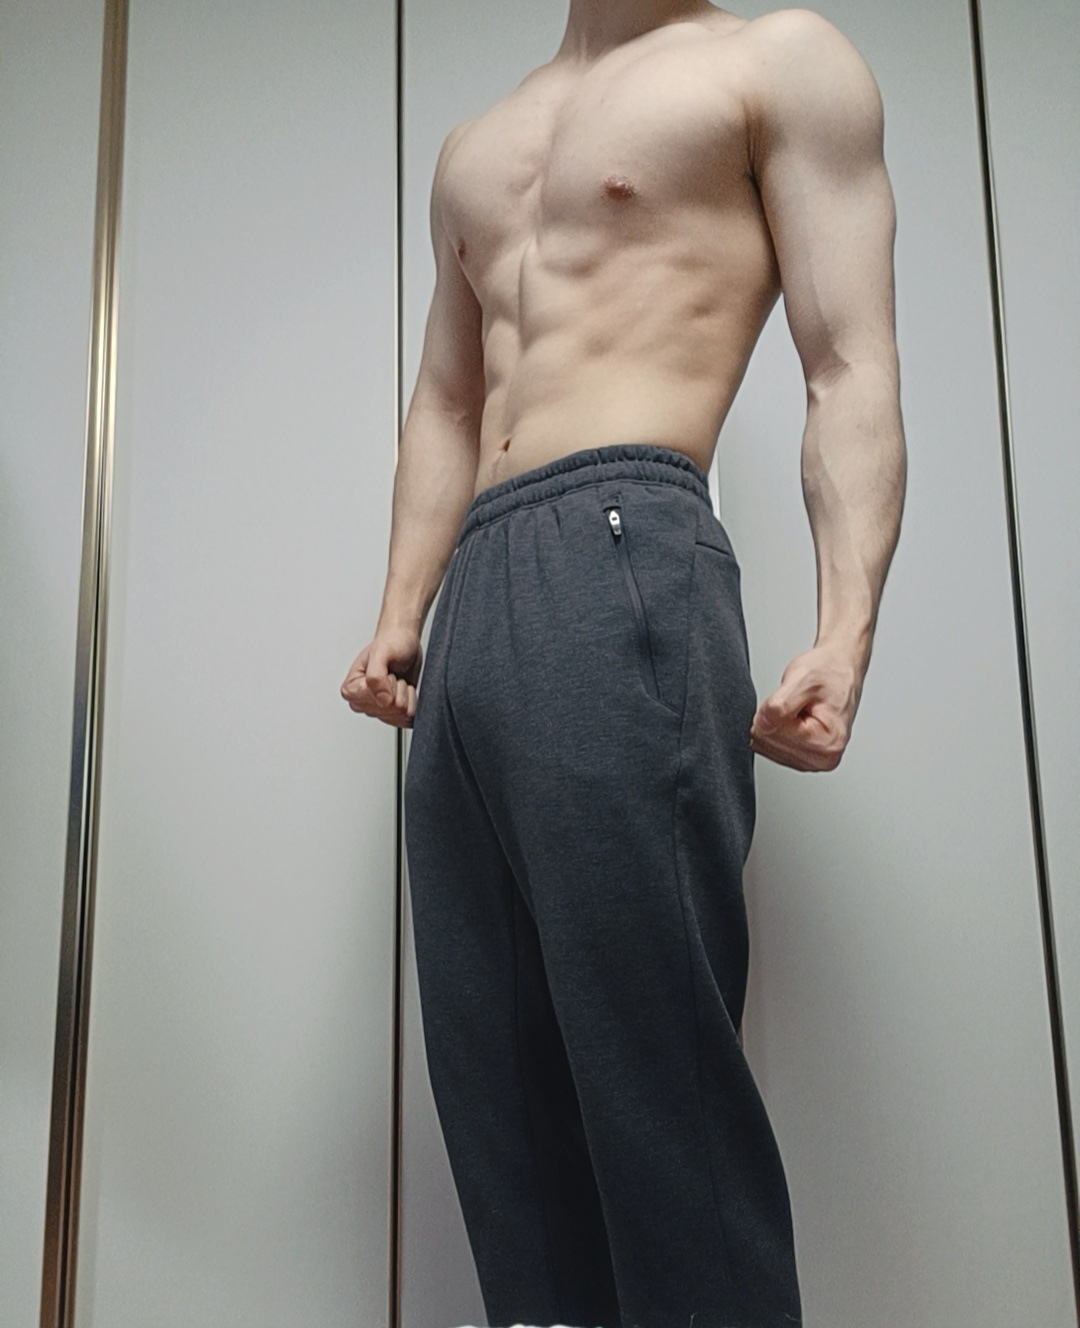
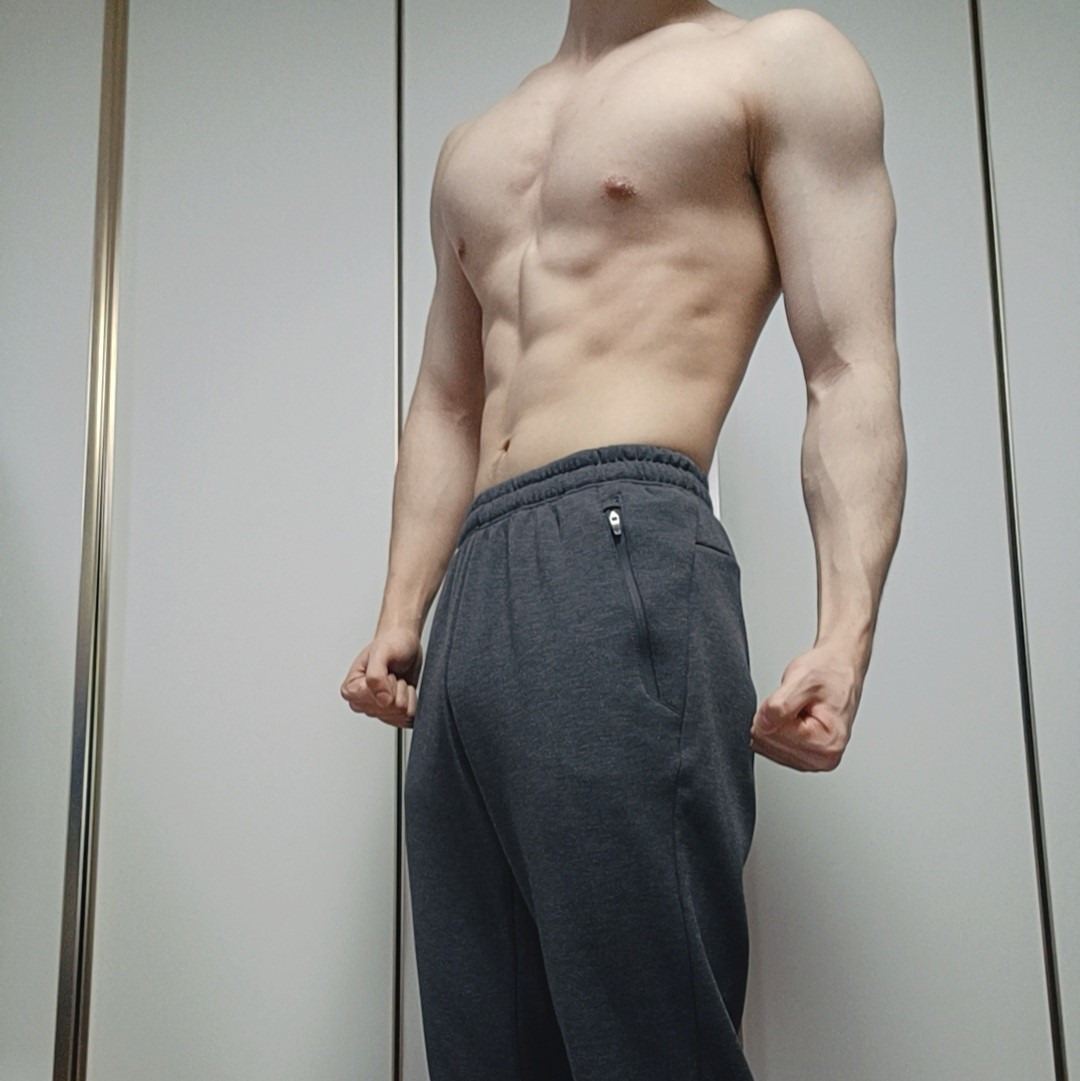
2025-01-10 Developments

diff --git a/hans-universe-workout/src/components/WorkoutContents.jsx b/hans-universe-workout/src/components/WorkoutContents.jsx
@@ -9,7 +9,7 @@ export default function WorkoutContents() {
       <div className="container-jh">
         <div className="body-profile-box">
           <h4 className="motto">&quot;Do as consistently as I can&quot;</h4>
-          <img src={bodyProfileImg} alt="bodyprofile" width={100}/>
+          <img src={bodyProfileImg} alt="bodyprofile" />
         </div>
         <article className="workout-article">
           <div className="article-title-box">
@@ -20,28 +20,28 @@ export default function WorkoutContents() {
             I had nothing to do with sports before I went to the army. So I had a hard time in the early days of my military life and decided that I should exercise, and now exercise is a big driving force in my life.
           </p>
           <div className="article-title-box">
-          <ion-icon name="accessibility-outline" />
+            <ion-icon name="accessibility-outline" />
             <h3 className="article-title">InBody</h3>
             <span className="bodyprofile-date">(As of October 22, 2024)</span>
-            <BarChart 
-              dataset={inbodyDataset}
-              yAxis={[{
-                scaleType: "band",
-                dataKey: "type",
-                disableTicks: true,
-              }]}
-              series={[{ dataKey: 'value', label: "mass", valueFormatter }]}
-              layout="horizontal"
-              grid={{vertical: true}}
-              colors={["black"]}
-              borderRadius={50}
-              xAxis={[{
-                label: "mass (kg)"
-              }]}
-              height={200}
-              width={500}
-            />
           </div>
+          <BarChart 
+            dataset={inbodyDataset}
+            yAxis={[{
+              scaleType: "band",
+              dataKey: "type",
+              disableTicks: true,
+            }]}
+            series={[{ dataKey: 'value', label: "mass", valueFormatter }]}
+            layout="horizontal"
+            grid={{vertical: true}}
+            colors={["black"]}
+            borderRadius={50}
+            xAxis={[{
+              label: "mass (kg)"
+            }]}
+            height={200}
+            width={500}
+          />
         </article>
       </div>
     </section>

diff --git a/hans-universe-workout/src/styles/components/_workoutContents.scss b/hans-universe-workout/src/styles/components/_workoutContents.scss
@@ -1,0 +1,29 @@
+@use "../abstracts" as *;
+
+#workout-contents .container-jh {
+  display: grid;
+  grid-template-columns: 1fr 1fr;
+  gap: 4rem;
+
+  .body-profile-box {
+    display: grid;
+    position: relative;
+
+    img {
+      object-fit: cover;
+      object-position: top;
+      border-radius: 5px;
+    }
+  }
+
+  .workout-article {
+    .article-title-box {
+      display: flex;
+      gap: 1rem;
+
+      ion-icon {
+        font-size: $fs-2;
+      }
+    }
+  }
+}

diff --git a/hans-universe-workout/src/styles/abstracts/_mixins.scss b/hans-universe-workout/src/styles/abstracts/_mixins.scss
@@ -1,0 +1,16 @@
+@mixin headerStyle($type, $url) {
+  ##{$type}-header {
+    background-image: linear-gradient(rgba(0, 0, 0, 0.5), rgba(0, 0, 0, 0.5)), url("/src/assets/workout/workout-header.jpg");
+    background-size: cover;
+    background-repeat: no-repeat;
+
+    .container-jh {
+      padding-block: 3rem;
+      text-align: center;
+
+      .header-title {
+        color: white;
+      }
+    }
+  }
+}

diff --git a/hans-universe-workout/src/styles/base/_reset.scss b/hans-universe-workout/src/styles/base/_reset.scss
@@ -24,6 +24,15 @@ a {
   color: black;
 }
 
+img {
+  width: 100%;
+  height: auto; 
+}
+
+section {
+  padding-block: 80px;
+}
+
 .section-title {
   font-size: $fs-1;
   font-weight: 600;
@@ -33,4 +42,13 @@ a {
 
 .container-jh {
   margin: 0 10%;
+}
+
+.motto {
+  margin: 0;
+  position: absolute;
+  top: -1.8rem;
+  color: $grey-1;
+  font-style: italic;
+  text-decoration: underline;
 }

diff --git a/hans-universe-workout/src/components/Header.jsx b/hans-universe-workout/src/components/Header.jsx
@@ -8,10 +8,10 @@ Header.propTypes = {
 
 export default function Header({ type }) {
   return (
-    <header id={`${type}-header`}>
+    <section id={`${type}-header`}>
       <div className="container-jh">
         <h1 className="header-title">{capitalize(type)} makes Me</h1>
       </div>
-    </header>
+    </section>
   )
 }

diff --git a/hans-universe-workout/src/styles/layout/_navbar.scss b/hans-universe-workout/src/styles/layout/_navbar.scss
@@ -1,7 +1,10 @@
 @use "../abstracts" as *;
 
 #nav {
-  // position: fixed;
+  position: sticky;
+  top: 0;
+  left: 0;
+  z-index: 100;
   background-color: $ghost-white;
   width: 100%;
   

diff --git a/hans-universe-workout/src/styles/layout/_header.scss b/hans-universe-workout/src/styles/layout/_header.scss
@@ -1,0 +1,3 @@
+@use "../abstracts" as *;
+
+@include headerStyle("workout","../../assets/workout/workout-header.jpg");

diff --git a/hans-universe-workout/src/styles/layout/_index.scss b/hans-universe-workout/src/styles/layout/_index.scss
@@ -1,2 +1,3 @@
 @forward "./navbar";
 @forward "./footer";
+@forward "./header";

diff --git a/hans-universe-workout/src/styles/workoutStyles.scss b/hans-universe-workout/src/styles/workoutStyles.scss
@@ -1,3 +1,5 @@
 @use "base";
 
 @use "layout";
+
+@use "components";

diff --git a/hans-universe-workout/src/styles/abstracts/_index.scss b/hans-universe-workout/src/styles/abstracts/_index.scss
@@ -1,1 +1,2 @@
 @forward "./variables";
+@forward "./mixins";

diff --git a/hans-universe-workout/src/styles/components/_index.scss b/hans-universe-workout/src/styles/components/_index.scss
@@ -1,0 +1,1 @@
+@forward "./workoutContents";
